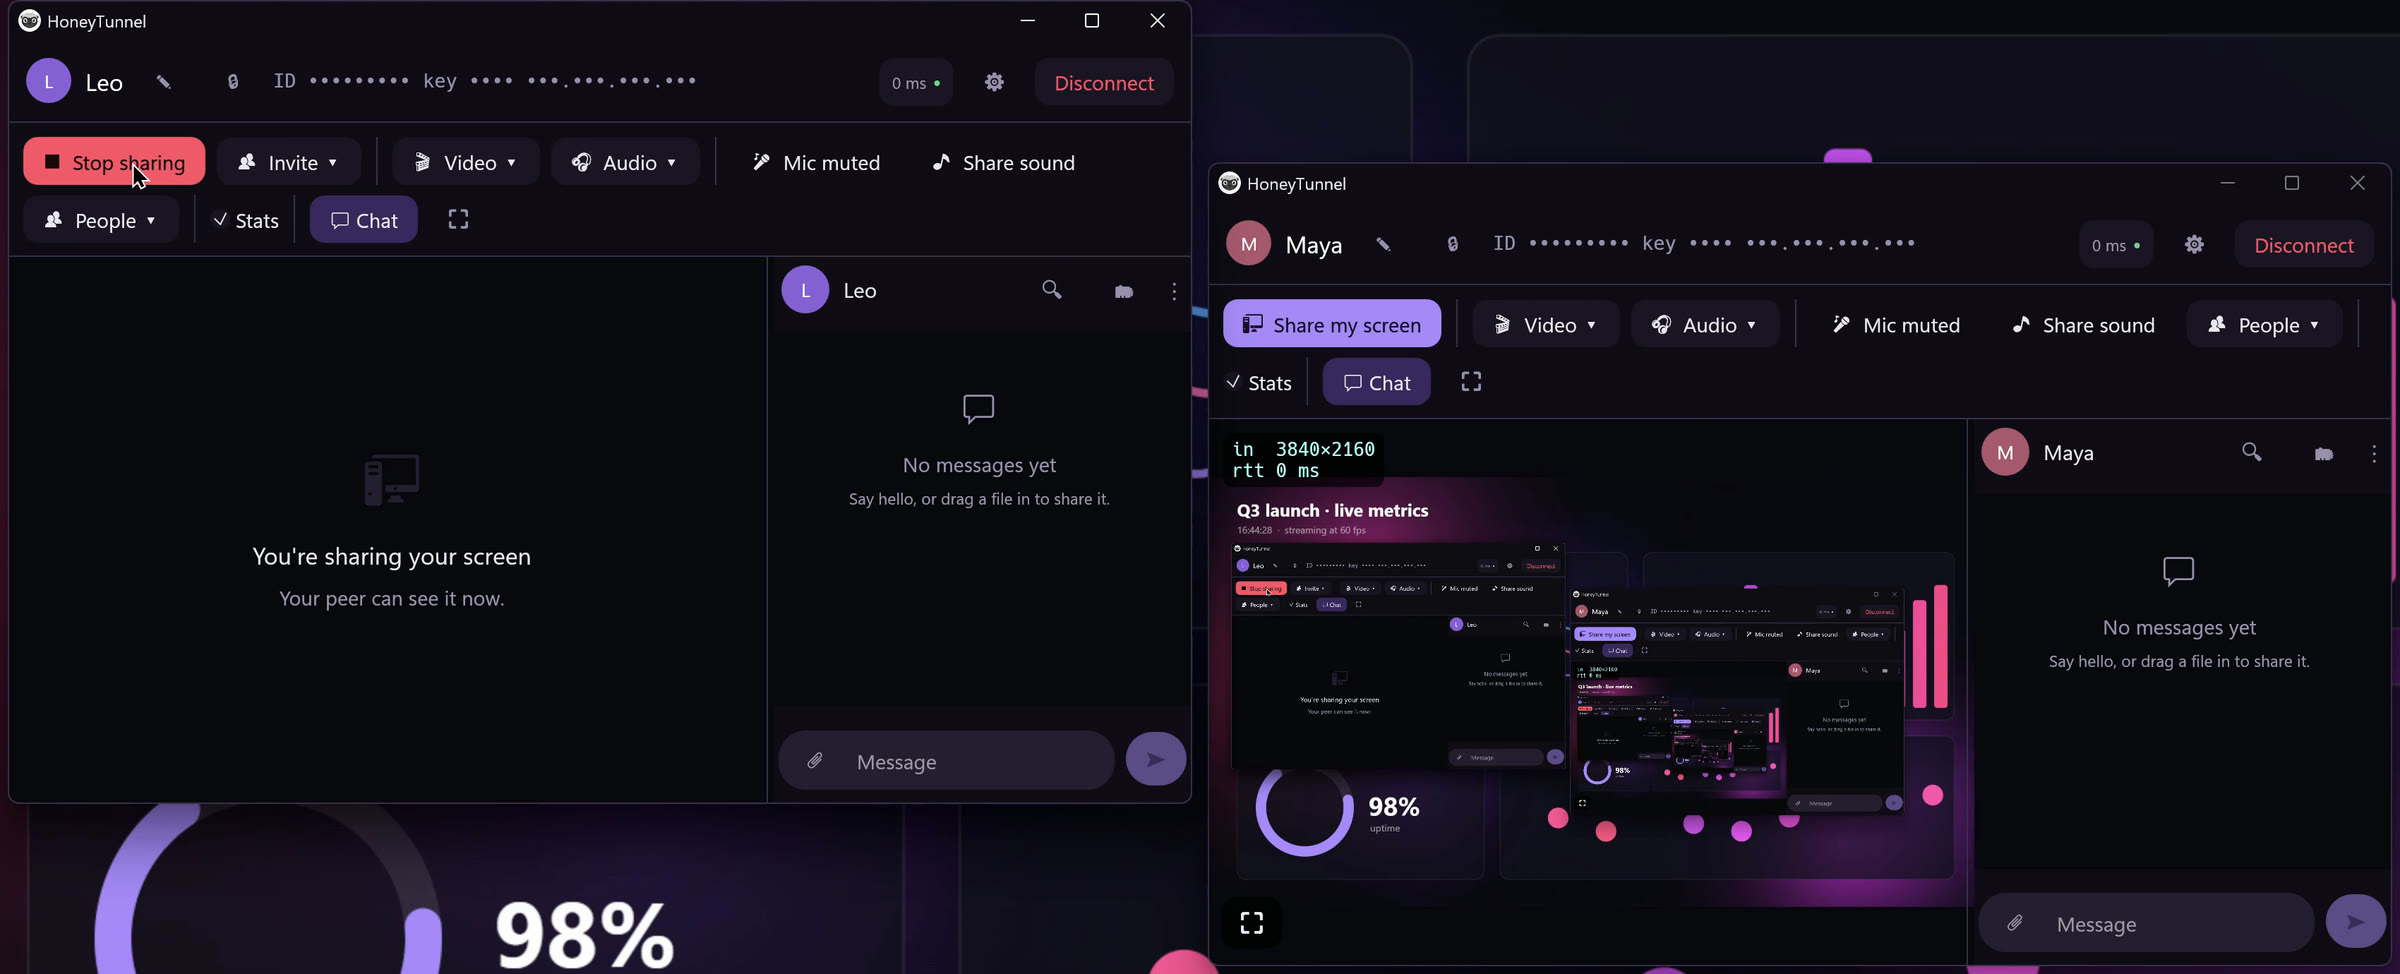
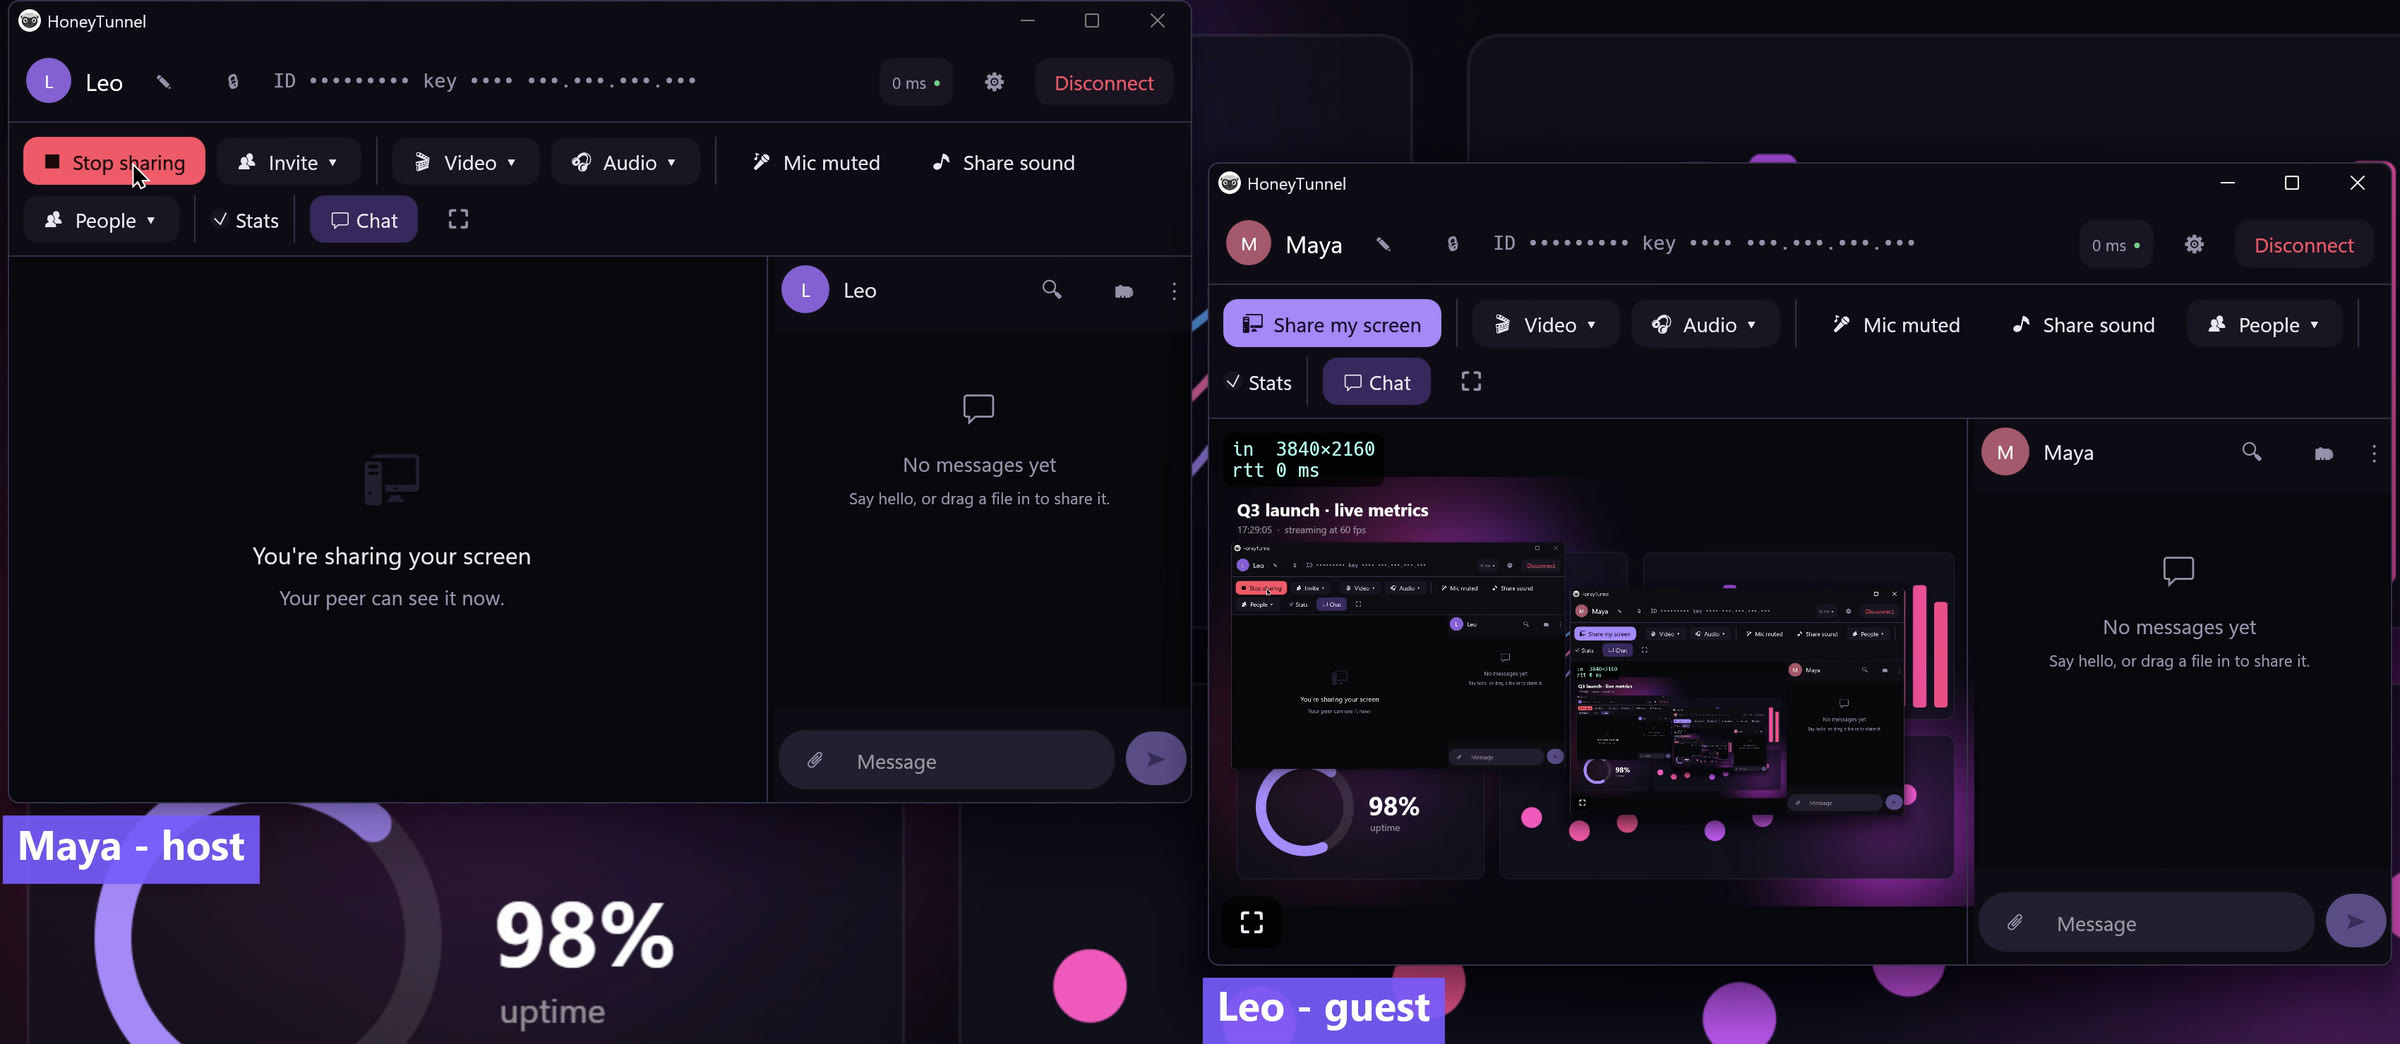
Re-record clips: label host/guest, no file dialog; refresh screenshots

diff --git a/README.md b/README.md
@@ -21,7 +21,7 @@
 
 https://github.com/user-attachments/assets/PENDING-share
 
-<sub align="center">Real, unedited capture. One PC plays both host and guest, sharing its 3840×2160 screen to itself, so the nested windows are the tunnel effect of watching your own screen.</sub>
+<sub align="center">Real capture, not a mock-up. One PC plays both host (Maya) and guest (Leo), sharing its 3840×2160 screen to itself, so the nested windows are the tunnel effect of watching your own screen.</sub>
 
 <br>
 
@@ -57,6 +57,8 @@ Pick the monitor, frame rate and resolution. Each viewer is sent what *their* sc
 <p align="center">
   <img src="media/shot-video-menu.jpg" alt="Video settings: screen, frame rate up to 160 fps, native 4K resolution" width="760">
 </p>
+
+<p align="center"><sub>The host's window. Each window's header shows the person you're talking to.</sub></p>
 
 <br>
 
